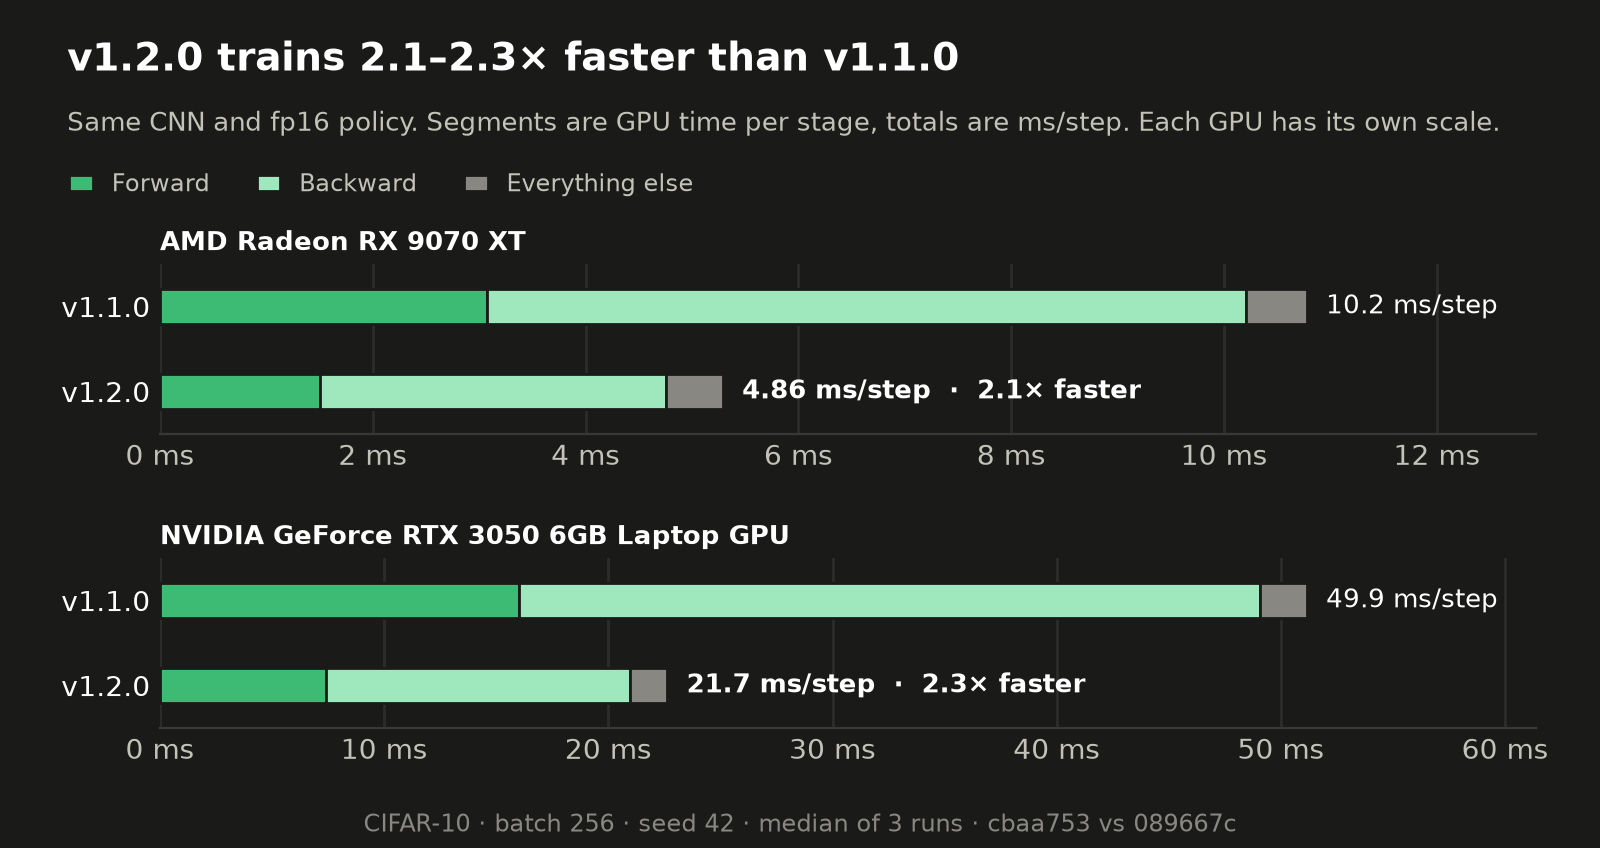
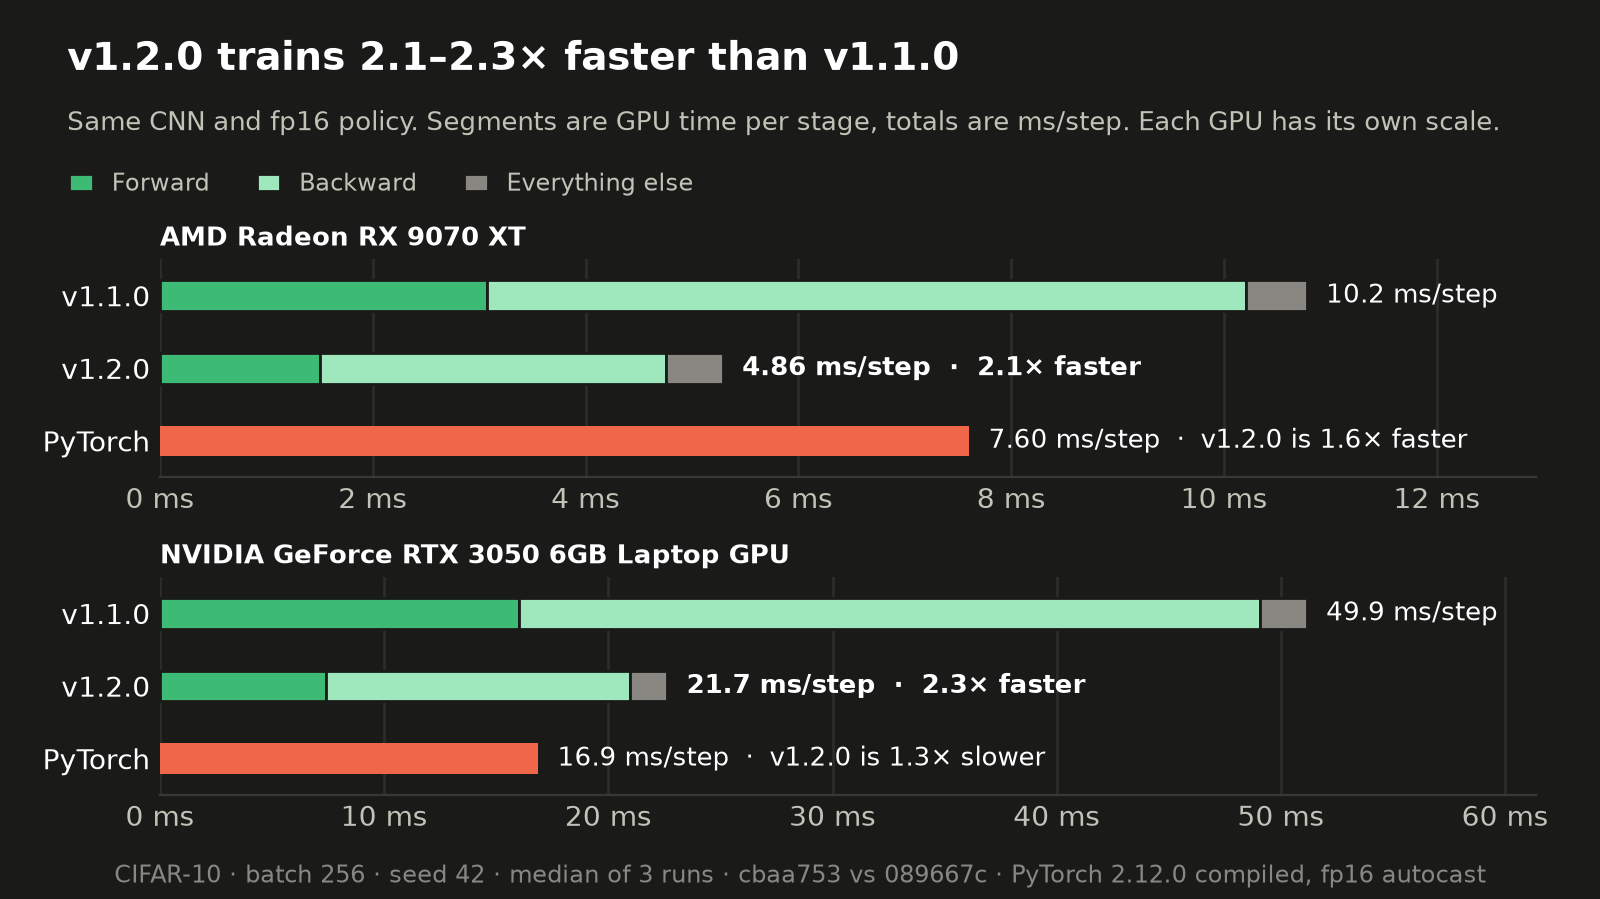
feat(benchmarks): color the PyTorch bar red and match the release figure height to the others

diff --git a/benchmarks/plot.py b/benchmarks/plot.py
@@ -55,6 +55,7 @@ THEMES = {
         "series": {"cupy-fused": "#2a9d5c", "cupy-fallback": "#2a78d6", "numpy-cpu": "#4a3aa7",
                    "other-gpu-fused": "#5da938"},
         "stages": {"forward": "#2a9d5c", "backward": "#16643a"},
+        "torch": "#ee4c2c",
     },
     "dark": {
         "suffix": "-dark",
@@ -69,6 +70,7 @@ THEMES = {
         "series": {"cupy-fused": "#3dbb74", "cupy-fallback": "#3987e5", "numpy-cpu": "#9085e9",
                    "other-gpu-fused": "#81d262"},
         "stages": {"forward": "#3dbb74", "backward": "#9fe8bd"},
+        "torch": "#f0664a",
     },
 }
 STAGE_LABELS = {"forward": "Forward", "backward": "Backward", "rest": "Everything else"}
@@ -404,7 +406,7 @@ def release_panel(ax, old_version, new_version, old, new, reference, gain, theme
     if reference:
         ms, new_ms = reference["baseline_ms"]["median"], new["baseline_ms"]["median"]
         ratio = ms / new_ms
-        ax.barh(0, ms, height=0.42, color=theme["secondary"])
+        ax.barh(0, ms, height=0.42, color=theme["torch"])
         ax.annotate(f"{fmt_ms(ms)} ms/step  ·  {new_version} is "
                     f"{fmt_multiple(ratio if ratio >= 1 else 1 / ratio)} "
                     f"{'faster' if ratio >= 1 else 'slower'}",
@@ -426,7 +428,7 @@ def figure_release(old_version, new_version, runs, theme):
     reference = next((ref for _, _, ref in runs if ref), None)
 
     # Everything is laid out in inches, so the panels keep their size as GPUs are added.
-    row_height, gap, top, bottom = 0.425, 0.62, 1.32, 0.60
+    row_height, gap, top, bottom = 0.363, 0.50, 1.30, 0.52
     panels = [row_height * (3 if reference else 2) for _, _, reference in runs]
     height = top + bottom + sum(panels) + gap * (len(runs) - 1)
     fig = new_figure(
